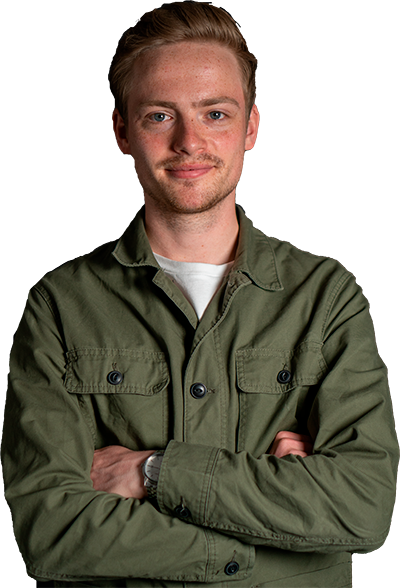
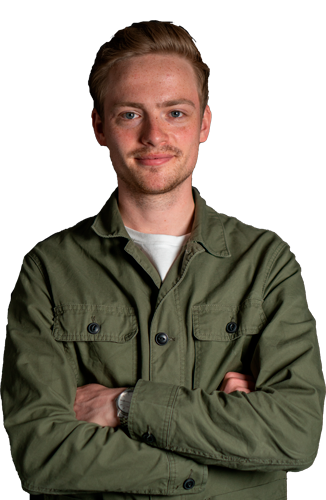
optimeret billede

diff --git a/index.html b/index.html
@@ -31,7 +31,7 @@
       </header>
 
       <header class="hright">
-        <img class="headerimg" src="billeder/frederikemildreyerarme.png" alt="Frederik Emil Dreyer">
+        <img class="headerimg" src="billeder/migarme.png" alt="Frederik Emil Dreyer">
       </header>
 
       <main>
